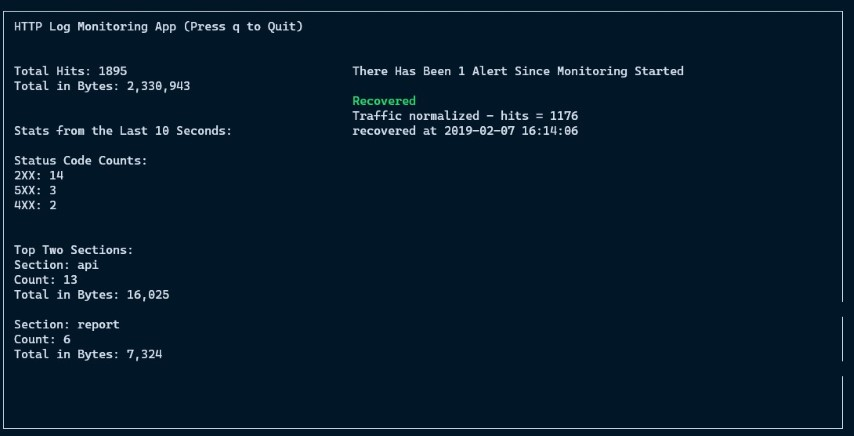
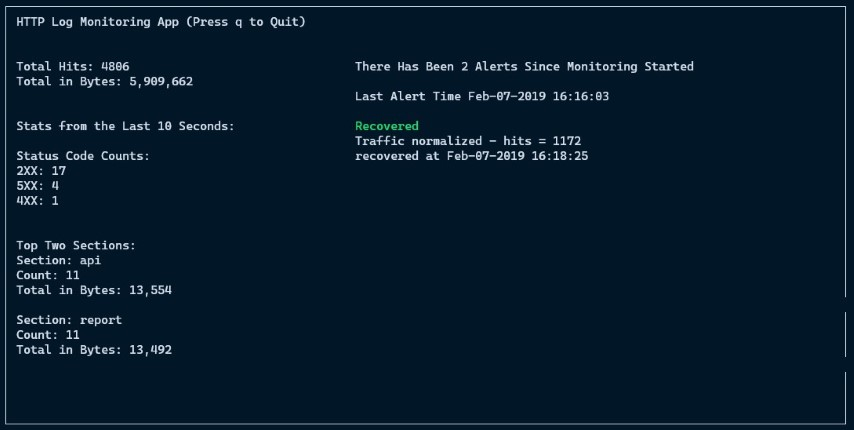
Some last minute changes and adding detail to readme - should be done!

diff --git a/http_monitor/log_alert_consumer.py b/http_monitor/log_alert_consumer.py
@@ -98,7 +98,7 @@ class LogAlertConsumer(threading.Thread):
         self.alert_data['type'] = 'alert'
         self.alert_data['alert_count'] += 1
 
-        date = datetime.fromtimestamp(timestamp).strftime('%Y-%m-%d %H:%M:%S')
+        date = datetime.fromtimestamp(timestamp).strftime('%b-%d-%Y %H:%M:%S')
         self.alert_data['last_alert_time'] = date
         self.alert_data['msg_line1'] = f'High traffic generated an alert:'
         self.alert_data['msg_line2'] = (
@@ -109,7 +109,7 @@ class LogAlertConsumer(threading.Thread):
         """
         Create recovered message using timestamp from log
         """
-        date = datetime.fromtimestamp(timestamp).strftime('%Y-%m-%d %H:%M:%S')
+        date = datetime.fromtimestamp(timestamp).strftime('%b-%d-%Y %H:%M:%S')
         self.alert_data['type'] = 'recovered'
         self.alert_data['msg_line1'] = (
             f'Traffic normalized - hits = {len(self.alert_queue)}'

diff --git a/README.md b/README.md
@@ -8,6 +8,7 @@ This HTTP Log Monitoring App can be used to tail a log file, which will alert if
 - [HTTP Log Monitoring App](#http-log-monitoring-app)
   - [Design](#design)
     - [General Design](#general-design)
+    - [Classes](#classes)
     - [Alerting System](#alerting-system)
   - [Instructions](#instructions)
     - [Requirements](#requirements)
@@ -16,6 +17,8 @@ This HTTP Log Monitoring App can be used to tail a log file, which will alert if
       - [Simulating logging](#simulating-logging)
     - [Testing](#testing)
   - [Potential Improvements](#potential-improvements)
+    - [General App Improvements](#general-app-improvements)
+    - [Scaling](#scaling)
   - [Sources Used](#sources-used)
     - [Threading](#threading)
     - [Tailing A file](#tailing-a-file)
@@ -28,34 +31,40 @@ This HTTP Log Monitoring App can be used to tail a log file, which will alert if
 
 ### General Design
 
-The general design follows the producer-consumer pattern. While the producer would be the devices creating the log lines, the consumers are set up here to take the logging information and process it to either provide statistics or generate alerts.
+The general design follows the producer-consumer pattern. While the producer would be the devices creating the log lines, the consumers are set up here to take the logging information and process it in order to provide both statistics and generate alerts.
 
-`LogReader` - This not only tails the provided log file and parses the text, but also populates the queues that will be consumed by the two consumers.
+There is 1 thread for each class (described below) to avoid blocking each other while producing and displaying what is needed.
+
+The app does work in `real time` while tailing a log file. Tailing can be simulated using a very basic implementation in `simulate.py` but otherwise the assumption was that 10 seconds / 2 minutes should be real time passed. For stats, the timestamps in the file doesn't matter but instead just real time. For alerting, real time is used for the 2 minute window but the alerting logic uses timestamps from the log lines.
+
+### Classes
+
+`LogReader` - This not only tails the provided log file and parses the text, but also populates the queues that will be consumed by the two consumers. This means that the log data is never stored in memory entirely but instead quickly passed on to be consumed and processed by the consumers.
 
 `LogAlertConsumer` - Alert consumer that takes a queue being populated by the `LogReader` and populates it's local queue to determine whether an alert should be triggerred or if the system has recovered from the alert. Alerting algorithm / system described below.
 
-`LogStatsConsumer` - Stats consumer that takes a separate queue being populated by the `LogReader` to compute stats for a provided interval time size.
+`LogStatsConsumer` - Stats consumer that takes a separate queue being populated by the `LogReader` to compute stats for a provided interval time size. As mentioned above, real time is used to refresh the data every 10 seconds.
 
-`Display` - Uses `curses` to display information to the user.
-
-`Threads` - threads were used for each class in order for each to individually do the work they need to do.
+`Display` - Uses `curses` to display data to the user by getting updated data from the two consumers.
 
 ### Alerting System
 
-The main algorithm (check `has_breached_threshold` method in class `LogAlertConsumer`) used is based on a sliding window technique. Timestamps are moved from the main queue to a local queue that will be filled within the time window set. This local queue is then used to get an approximate average hits / second for the time window by taking the length of this local queue and dividing it by the time window (eg. `len(local_queue) / 120`). Before this is computed, any early timestamps that are now outside of the window are popped off the queue.
+The main algorithm (`has_breached_threshold` method in class `LogAlertConsumer`) is based on a sliding window technique. Timestamps are moved from the main queue to a local queue that will be filled within the set time window. This local queue is then used to get an `approximate average hits / second` for the time window by taking the length of this local queue and dividing it by the time window (eg. `len(local_queue) / 120`).
+
+So that the alerting is based on the timestamps within the file as opposed to current time, the log timestamps are used to ensure that any early timestamps that fall out of the log time window are popped off the queue before computing the approximate average. This means that the local queue is only ever holding the number of timestamp ints that correspond to hits that the consumer moved into the queue within the set time window.
 
 Several options were also explored for the alerting system. Since the log line timestamps can be slightly out of order...
 
-1. Min Heap was initially used to sort the data as it comes in but this would require adding and removing elements in the heap.
+1. Min Heap was initially used to sort the data as it comes in but this would require repeatedly adding and removing elements in the heap that is mostly sorted but many duplicates.
 2. Hash map with `timestamp mod time window size` as key to store counts by seconds
 
-But ultimately, the average hits / second was still be an approximation due to timestamps being out of order and end of time window handling.
+But ultimately, the average hits / second was still an approximation due to timestamps being out of order and that it would only really address the start of the window and not the end.
 
 ## Instructions
 
 ### Requirements
 
-App was tested both on MacOS Catalina and Windows 10. I tried to build without any external dependencies but `curses` does need a packaged to be installed on `Windows` in order for proper functionality.
+App was tested both on MacOS Catalina and Windows 10. I tried to build without any external dependencies but `curses` does need a package to be installed on `Windows` in order for proper functionality.
 
 1. Python 3.8.3 was used to build the app.
 2. `Windows` only dependency: `windows-curses` must be installed via `pip install windows-curses`.
@@ -63,11 +72,13 @@ App was tested both on MacOS Catalina and Windows 10. I tried to build without a
 
 ### Running the app
 
-The app is designed to tail a file. There is an empty file `log-file.log` in `log_files` that can be used to write to but otherwise any file can be passed in. To start the app, use the following command...
+The app is designed to tail a file. There is an empty file `log-file.log` in `log_files` that can be used to write to but otherwise any log file that will logged to can be passed in. To start the app, use the following command...
 
 `python http_monitor.py log_files/log-file.log`
 
-`q` Will quit out of the app and kill threads
+`NOTE`: Since the app is designed around `tailing a file`, passing in the provided `sample_csv.txt` file `will not work`. If log file to tail isn't available, this can be simulated as described below.
+
+Use `q` to quit out of the app and cleanly terminate the threads.
 
 #### Options
 
@@ -79,11 +90,11 @@ The app is designed to tail a file. There is an empty file `log-file.log` in `lo
 
 #### Simulating logging
 
-In order for local development, a program was created to simulate logging to a file. This should be started separately. First file should be the data file and the second file is the log file that will be written too and monitored by the main app.
+In order for local development, a program was created to simulate logging to a file. This should be started separately. First file should be a data file like the one provided and the second file should be the log file that will be written too and monitored by the main app.
 
 `python simulate.py log_files/sample_csv.txt log_files/log-file.log`
 
-Use `Ctrl-C` to exit
+Use `Ctrl-C` to exit.
 
 ### Testing
 
@@ -95,9 +106,24 @@ To run the three tests (alert, recover, recover then alert), in root folder...
 
 ## Potential Improvements
 
+### General App Improvements
+
 1. The `curses` implementation is a bit rough as it is my first time using the package and also first time writing an app that displays to a CLI. Better formatting, properly handling window resizing and handling top N with proper spacing would make the display better. For now, top N sections is locked to two sections because of spacing concerns.
 2. The simulator that can be used to simulate logging is a simple app that writes to a file line by line with a random sleep time in between each line. There may be better ways to simulate logging but for now the log lines are written to an monitered file slower than it would be in production environment.
-3. Test coverage can be added to other parts of the app. Currently only coverage for alerting states.
+3. Test coverage can be added to other parts of the app. Currently, there is only test coverage for alerting states.
+4. Stats consumer could probably use a refactor so that it isn't one method that updates counts for the stats. Also, only basic top level counts are provided but it may be also helpful to track other stats like what is the most frequent status code or most frequent IP for each section
+
+### Scaling
+
+Generally, I believe the app is app efficient enough as it never reads data entirely into memory but only chunks data is saved temporarily based on set interval and window size times.
+
+For scaling,
+
+1. Ideally log monitoring and processing is not done on the same server and especially not on the app server.
+
+2. The producer-consumer pattern used in the app lends itself well to a Kafka like setup where data from producers are moved to queues on Kafka. The consumers can then take from these queues as required. This also allows for scaling of the intake queues as traffic requires.
+
+3. The consumers can also be moved to their own servers dependent on computing need since they are independent of each other and use their own queues of data.
 
 ## Sources Used
 
